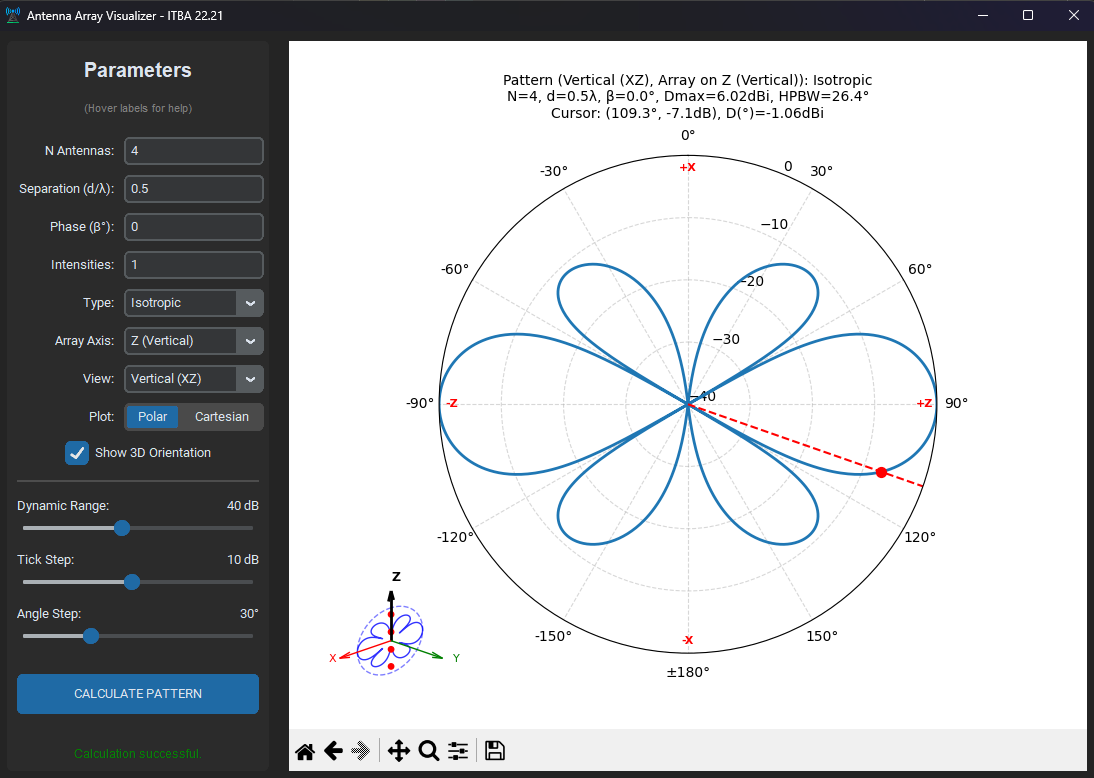
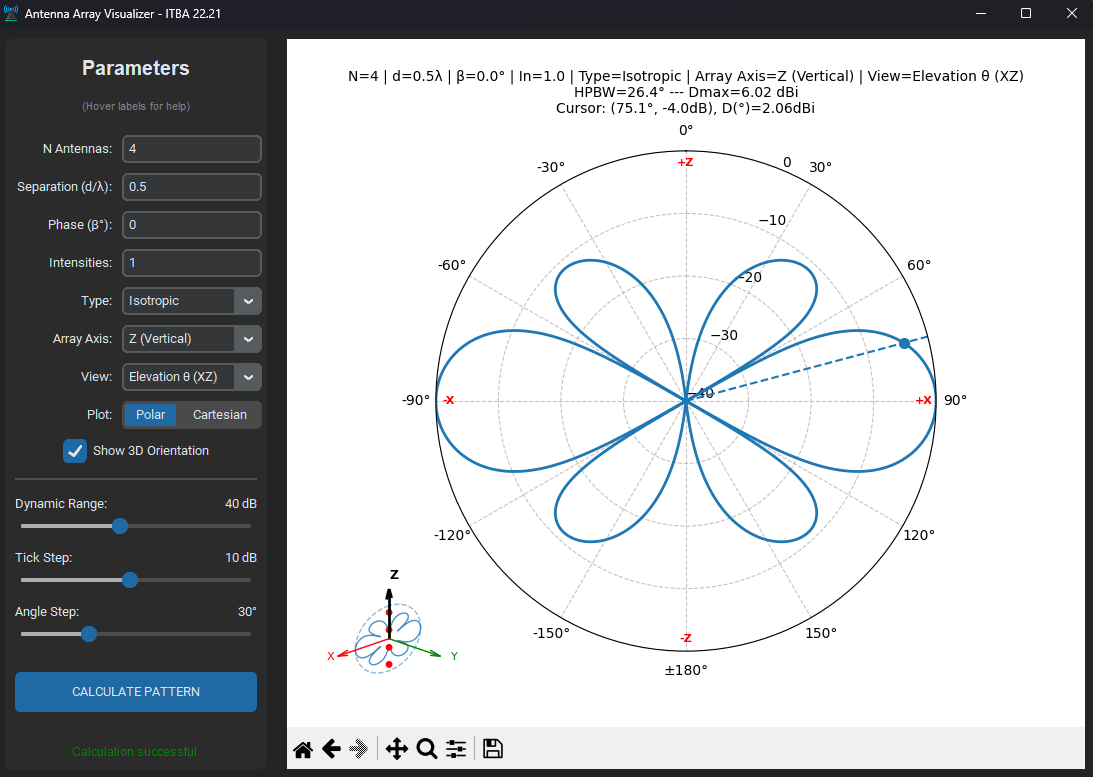
Update README and documentation for version 0.2; enhance element type descriptions and visualization modes

diff --git a/docs/latex/Manual_AntennaArrayVisualizer.tex b/docs/latex/Manual_AntennaArrayVisualizer.tex
@@ -23,11 +23,14 @@
 % Configuración de márgenes
 \geometry{margin=1in}
 
+\newcommand{\softversion}{v0.2}
+
 % Configuración de encabezado y pie de página
 \pagestyle{fancy}
 \fancyhf{}
 \rhead{\small Manual de Usuario - Visualizador de Arreglos}
 \lhead{\small ITBA - 22.21 Electromagnetismo}
+\lfoot{\small \softversion}
 \rfoot{\small Página \thepage}
 
 \title{
@@ -37,7 +40,8 @@
 }
 \author{
     \textbf{Trabajo Especial - 22.21 Electromagnetismo} \\[1ex]
-    \textit{Instituto Tecnológico de Buenos Aires (ITBA)} \\[0.5cm]
+    \textit{Instituto Tecnológico de Buenos Aires (ITBA)} \\[0.25cm]
+    \texttt{\small\softversion} \\[0.25cm]
     Autores: \\
     \sl{Alejandro Nahuel Heir} \\
     \sl{María de Guadalupe Voss} \\[0.5cm]
@@ -57,6 +61,7 @@
 
 \tableofcontents
 \newpage
+\setcounter{page}{1}
 
 \section{Introducción}
 El objetivo de este software es proporcionar una herramienta gráfica para el estudio del teorema de multiplicación de diagramas. Este programa permite modificar parámetros como la fase progresiva ($\beta$), la distancia eléctrica ($d/\lambda$) y la distribución de corrientes ($I_n$) en tiempo real, facilitando la comprensión de fenómenos como el \textit{beam steering} (direccionamiento del haz) y el \textit{beam shaping} (conformado del haz).
@@ -200,23 +205,28 @@ La aplicación recalcula el patrón automáticamente al modificar los valores y 
 \begin{itemize}
     \item \texttt{N Antennas:} Cantidad total de elementos.
     \item \texttt{Separation ($d/\lambda$):} Distancia eléctrica entre elementos.
-    \item \texttt{Phase ($\beta$):} Fase progresiva en grados. Permite realizar escaneo electrónico del haz principal.
+    \item \texttt{Phase ($\beta$):} Fase progresiva en grados.
     \item \texttt{Intensities:} Control de excitación de corrientes.
     \begin{itemize}
         \item \textit{Escalar:} Un solo valor aplica a todo el arreglo (Uniforme).
         \item \textit{Vector:} Una lista separada por comas (ej. ``1, 0.5, 0.5, 1'') define un arreglo no uniforme.
     \end{itemize}
-    \item \texttt{Type:} Elemento base (Isotrópica, Dipolo, Monopolo).
-    \item \texttt{Array Axis:} Define la geometría del arreglo (Z o X). Esto altera drásticamente la simetría 3D del patrón resultante.
+    \item \texttt{Type:} Elemento base. Las opciones son \textit{Isotropic}, \textit{Dipole ($\lambda/2$, Vertical Z)} y \textit{Monopole ($\lambda/4$, Vertical Z)}, indicando que el elemento siempre se alinea al eje Z.
+    \item \texttt{Array Axis:} Define la geometría del arreglo (sobre el eje Z o X).
 \end{itemize}
 
 \subsection{Visualización y Herramientas}
 
 \subsubsection{Modos de Vista}
 \begin{itemize}
-    \item \textit{View:} Permite alternar entre cortes 2D (Vertical XZ, Horizontal XY) o \texttt{Both} para visualización simultánea.
-    \item \textit{Plot:} Representación en coordenadas Polares o Cartesianas.
-    \item \textit{3D Orientation:} Activa un gráfico vectorial incrustado que muestra la disposición física de los dipolos y el plano de corte activo en tiempo real.
+    \item \texttt{View:} Permite alternar entre los planos de corte:
+    \begin{itemize}
+        \item \textit{Elevation $\theta$ (XZ):} Corte vertical variando el ángulo de elevación.
+        \item \textit{Azimuth $\phi$ (XY):} Corte horizontal variando el ángulo de acimut.
+        \item \textit{Both:} Visualización simultánea de ambos planos.
+    \end{itemize}
+    \item \texttt{Plot:} Representación en coordenadas Polares o Cartesianas.
+    \item \texttt{3D Orientation:} Activa un gráfico vectorial incrustado que muestra la disposición física de los dipolos y el plano de corte activo en tiempo real.
 \end{itemize}
 
 \subsubsection{Cursor Interactivo y Métricas}
@@ -225,8 +235,8 @@ El sistema proporciona análisis en tiempo real:
     \item \textit{Cursor:} Al pasar el mouse, se muestra el ángulo y la ganancia local. Al hacer clic, el cursor se fija para facilitar la lectura de datos.
     \item \textit{Métricas en Título:}
     \begin{itemize}
-        \item $D_{max}$ (dBi): Directividad máxima calculada por integración esférica.
-        \item $HPBW$ ($^\circ$): Ancho del lóbulo principal a -3dB.
+        \item $D_{max}$ (dBi): Directividad máxima global calculada por integración esférica.
+        \item $HPBW$ ($^\circ$): Ancho del lóbulo principal a -3dB. En la vista \texttt{Both}, se reporta el HPBW correspondiente a cada plano (\textit{Elevation} y \textit{Azimuth}) por separado.
     \end{itemize}
 \end{itemize}
 

diff --git a/src/front.py b/src/front.py
@@ -46,7 +46,7 @@ class App(ctk.CTk):
         self.PLOT_COLOR_VERTICAL = '#1f77b4'  # Blue for vertical
         self.PLOT_COLOR_HORIZONTAL = '#d62728'  # Red for horizontal
 
-        self.title("Antenna Array Visualizer - ITBA 22.21")
+        self.title("Antenna Array Visualizer - ITBA 22.21 - v0.2")
         self.geometry("1100x750")
         ctk.set_appearance_mode("Dark")
         ctk.set_default_color_theme("blue")

diff --git a/README.md b/README.md
@@ -7,13 +7,13 @@ A simple desktop application to calculate and visualize the radiation pattern of
 ## Features
 
 *   Calculate and visualize radiation patterns for linear antenna arrays using the Multiplication Theorem.
-*   Support for multiple element types: Isotropic, Dipole (λ/2), and Monopole (λ/4).
+*   Support for multiple element types: Isotropic, Dipole (λ/2, Vertical Z), and Monopole (λ/4, Vertical Z).
 *   Adjustable parameters:
     *   Number of antennas (N).
     *   Separation between antennas (d/λ).
     *   Progressive phase shift (β in degrees) for beam steering.
     *   Current intensities for each element (supports uniform or custom distributions).
-*   Multiple views: Vertical (Elevation/Theta), Horizontal (Azimuth/Phi), and Both (dual view visualization).
+*   Multiple views: Elevation θ (XZ), Azimuth φ (XY), and Both (dual view visualization).
 *   Plot types: Polar (directional) and Cartesian (rectangular) coordinate systems.
 *   Customizable plot settings:
     *   Dynamic range (dB floor).
